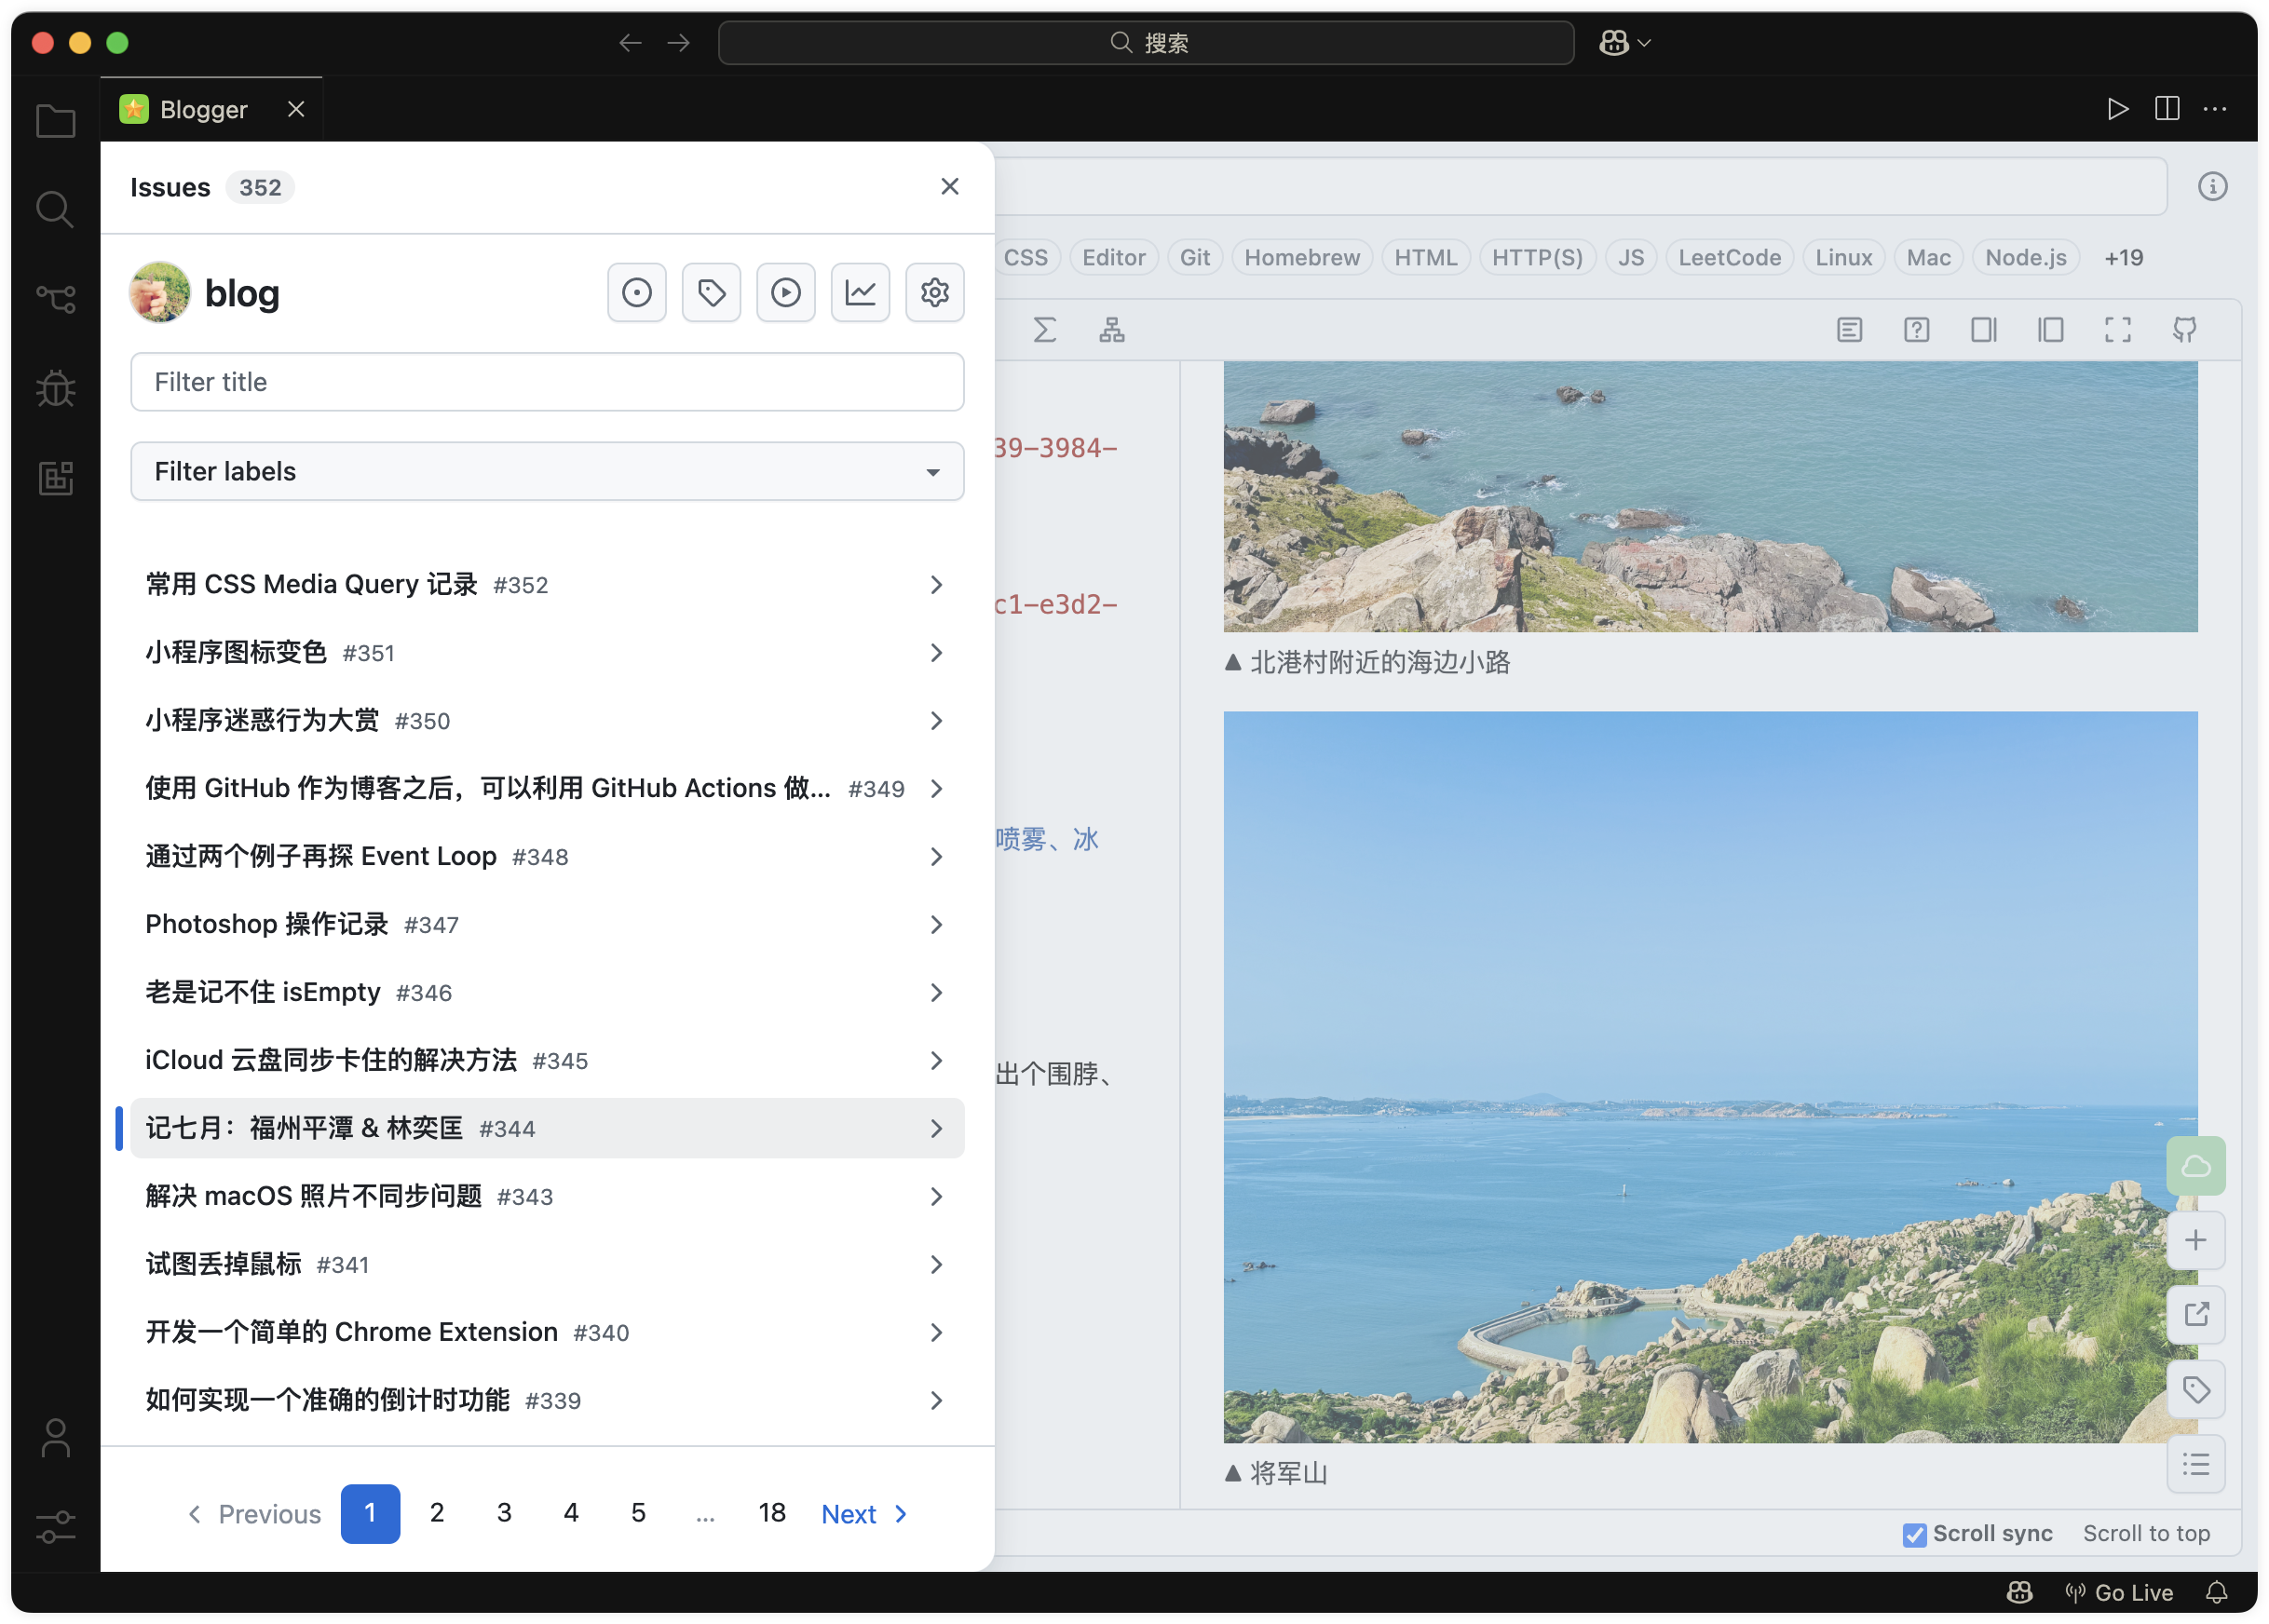
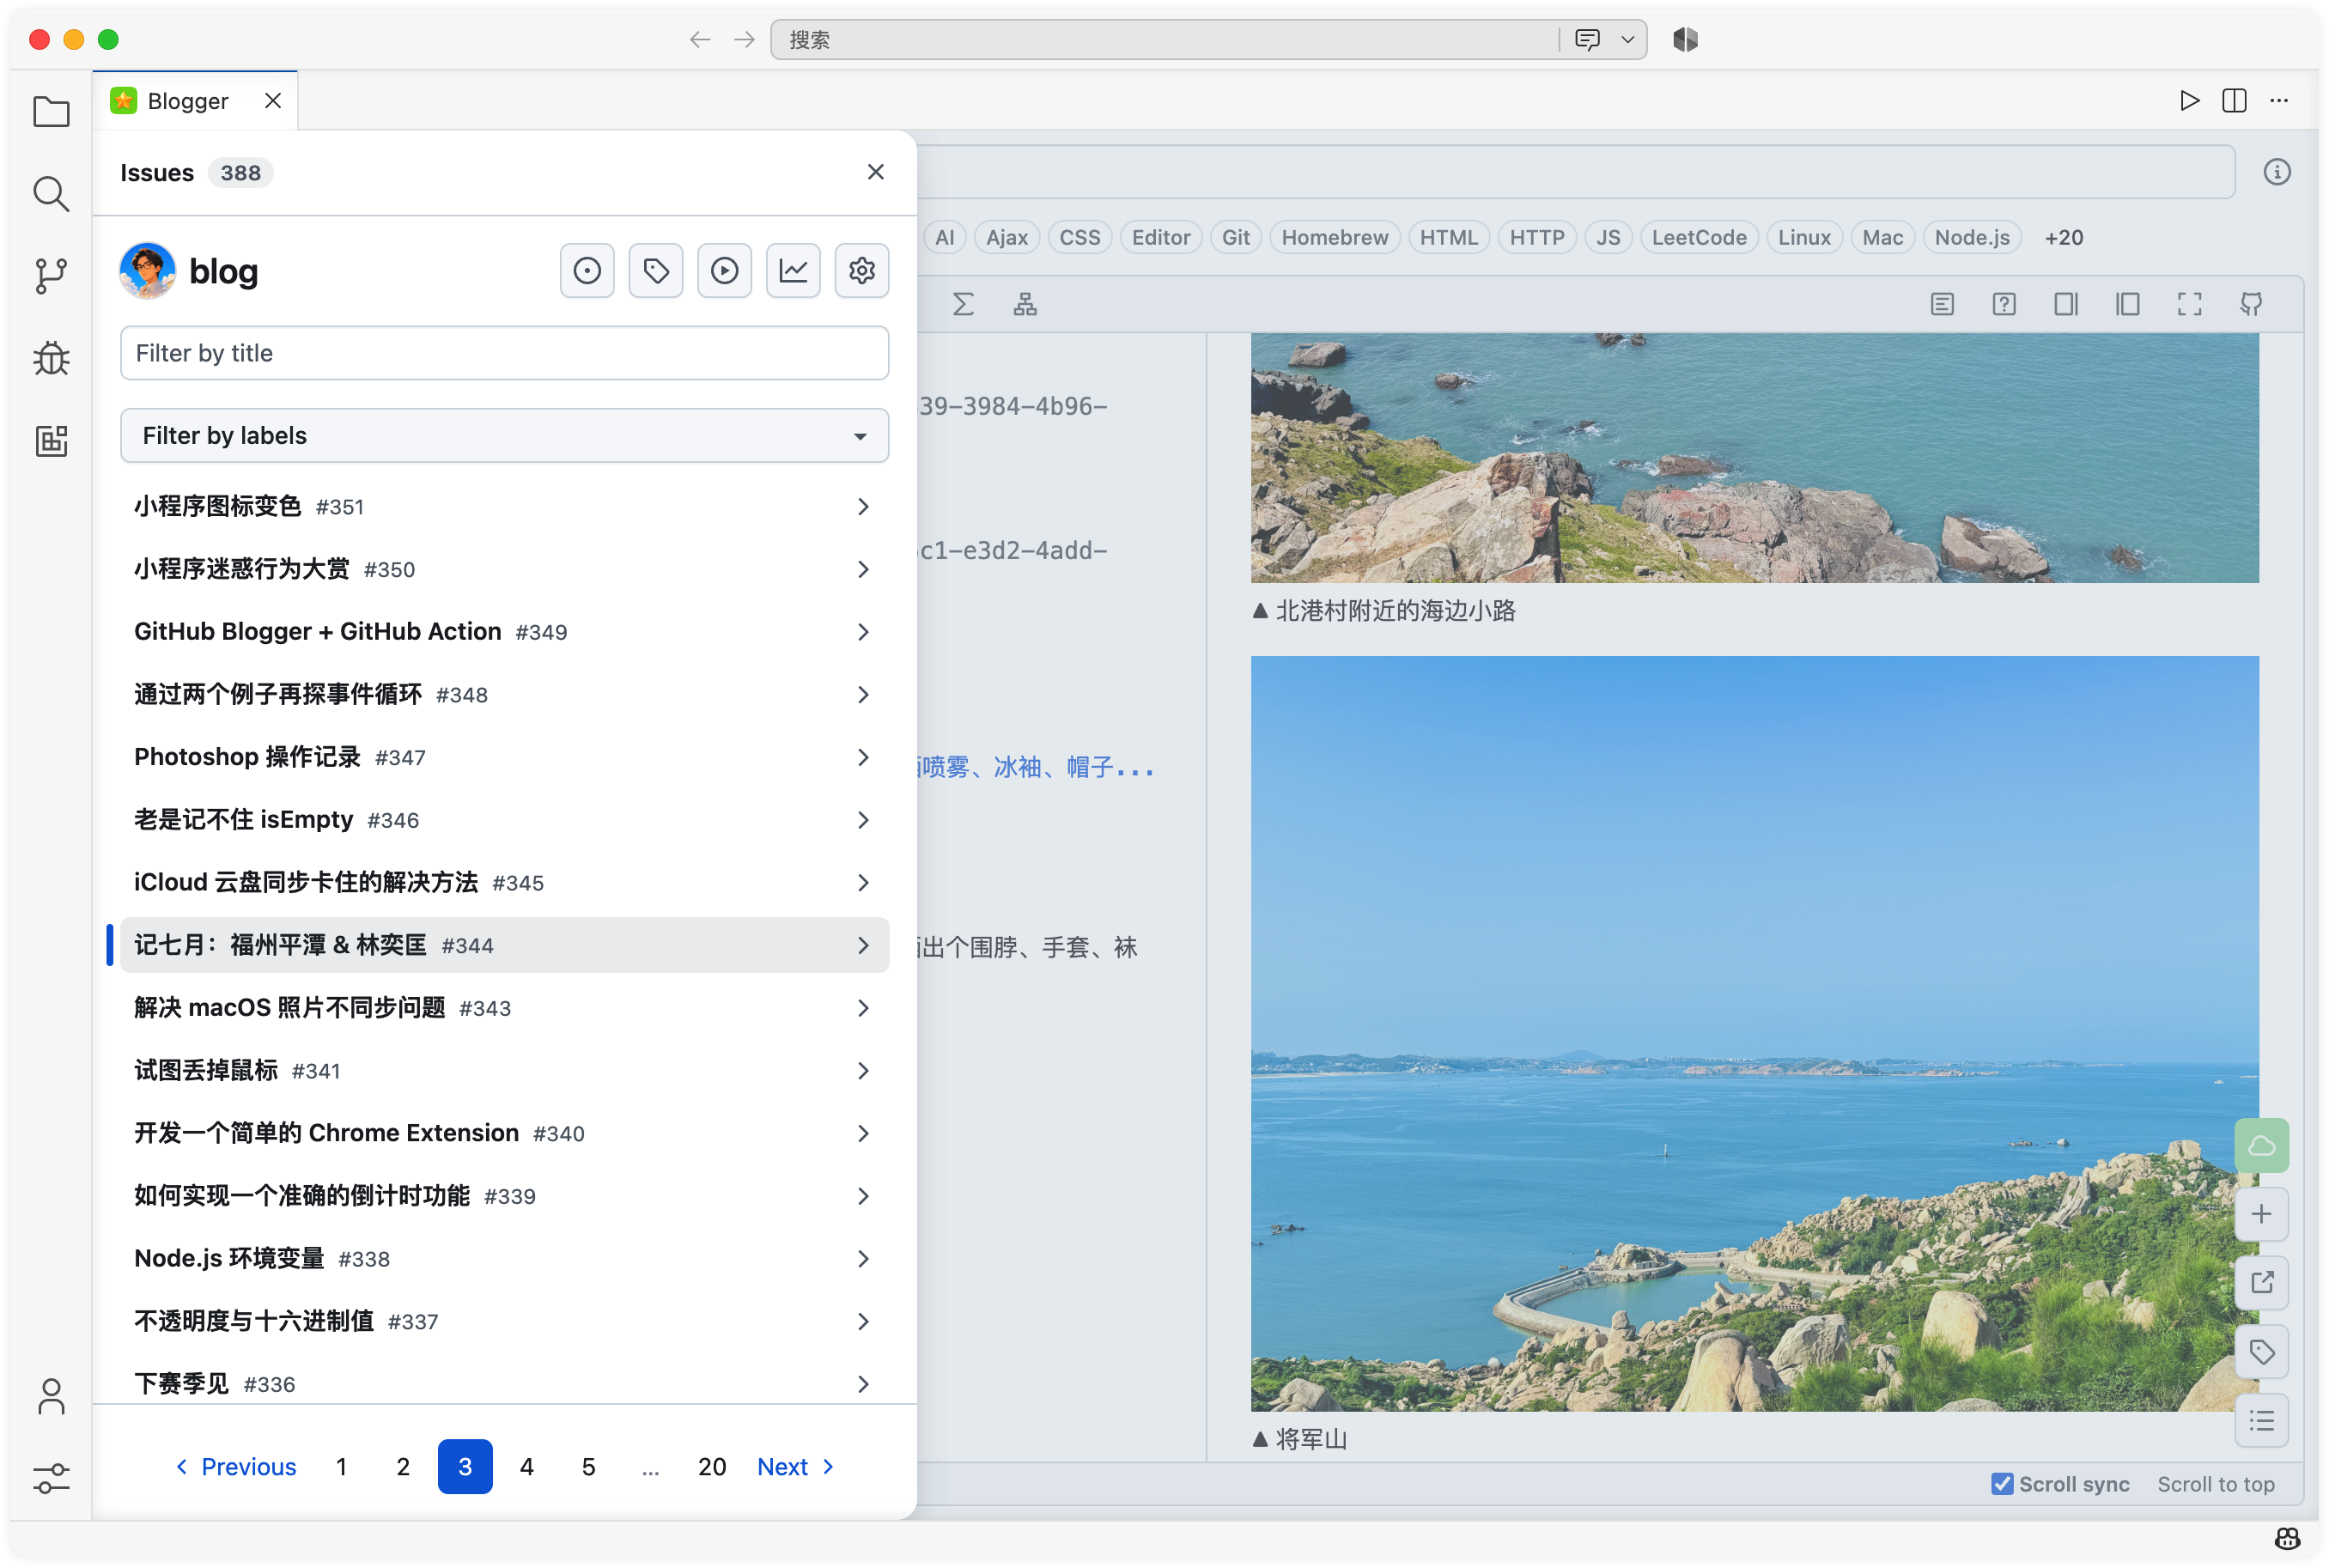
chore: release v3.0.0

diff --git a/src/components/issues/index.tsx b/src/components/issues/index.tsx
@@ -481,7 +481,9 @@ function WithoutIssue({ onActionClick }: { onActionClick: () => void }) {
         <SparkleFillIcon size="medium" />
       </Blankslate.Visual>
       <Blankslate.Heading>Welcome to GitHub Blogger</Blankslate.Heading>
-      <Blankslate.Description>Create and manage blog posts via GitHub issue</Blankslate.Description>
+      <Blankslate.Description>
+        Create and manage blog posts via GitHub Issues
+      </Blankslate.Description>
       <Blankslate.PrimaryAction onClick={onActionClick}>
         Create your first issue
       </Blankslate.PrimaryAction>

diff --git a/README.md b/README.md
@@ -5,19 +5,15 @@
 
 English | [中文](README.zh_CN.md)
 
-**GitHub Blogger** is a VS Code extension for writing and managing blog posts via GitHub issue. It supports Markdown editing, live preview, and seamless publishing — all powered by GitHub.
-
-In principle, it works with all VSCodium-based editors, such as Cursor, TRAE, Kiro and Google Antigravity.
+**GitHub Blogger** is a VS Code WebView extension for managing GitHub Issues as blog posts. It supports rich Markdown rendering, live preview, and convenient post editing and publishing. This extension works with all VSCodium-based editors, such as Cursor, TRAE, Kiro, Google Antigravity, and more.
 
 ## Features
 
-- Manage and publish blog posts via GitHub issue
-- GitHub-native interaction experience
-- GFM render support, such as Alerts
-- Light and dark mode support
-- Markdown editing with live preview and plugin support (Math, Mermaid, etc.)
-- Free image hosting support: images are stored in your blog repository and served via jsDelivr CDN
-- All posts and edit history (as Git commits) are stored in your blog repository
+- Manage and publish blog posts via the GitHub API, with text, images, and edit history (Git commits) stored in your blog repository
+- A GitHub-native writing experience with support for common workflows such as Issues and Labels
+- Light and dark modes, with editor appearance you can switch as needed
+- Live preview and rich Markdown rendering, including GitHub Flavored Markdown, math formulas, Mermaid Diagram, GitHub Alerts, and more
+- Built-in free image hosting: images are stored in your blog repository and accelerated via jsDelivr CDN
 
 > [!IMPORTANT]
 > **Your blog repository must be public** for jsDelivr CDN to work ([why](https://github.com/jsdelivr/jsdelivr/issues/18243#issuecomment-857512289), [set visibility](https://docs.github.com/en/repositories/managing-your-repositorys-settings-and-features/managing-repository-settings/setting-repository-visibility))
@@ -65,6 +61,15 @@ This extension requires a [GitHub Personal Access Token (classic)](https://githu
 ![](./images/screenshot-2.png)
 ![](./images/screenshot-3.png)
 
+<details>
+<summary>Dark Mode</summary>
+
+![](./images/screenshot-dark-1.png)
+![](./images/screenshot-dark-2.png)
+![](./images/screenshot-dark-3.png)
+
+</details>
+
 ## Acknowledgements
 
 This project is built upon and inspired by the open-source community, including:
@@ -78,7 +83,7 @@ This project is built upon and inspired by the open-source community, including:
 
 ## Related Projects
 
-- [github-issue-toc](https://github.com/tofrankie/github-issue-toc) Generate a table of contents for GitHub issue
+- [github-issue-toc](https://github.com/tofrankie/github-issue-toc) Generate a table of contents for GitHub Issues
 
 ## License
 

diff --git a/README.zh_CN.md b/README.zh_CN.md
@@ -5,19 +5,15 @@
 
 [English](README.md) | 中文
 
-**GitHub Blogger** 是一款基于 VS Code 的扩展，通过 GitHub issue 编写和管理博客文章。支持 Markdown 编辑、实时预览和无缝发布，这一切都由 GitHub 驱动。
-
-理论上支持所有基于 VSCodium 的编辑器，如 Cursor、TRAE、Kiro、Google Antigravity 等。
+**GitHub Blogger** 是一个 VS Code WebView 扩展，用于将 GitHub Issues 管理为博客文章。它支持丰富的 Markdown 渲染、实时预览，以及便捷的文章编辑与发布。本扩展支持所有基于 VSCodium 的编辑器，如 Cursor、TRAE、Kiro、Google Antigravity 等。
 
 ## 功能特性
 
-- 通过 GitHub issue 管理和发布博客文章
-- 原生 GitHub 交互体验
-- 支持 GFM 渲染，如 GitHub Alerts
-- 支持深色和浅色模式
-- 支持实时预览和插件的 Markdown 编辑器（数学公式、Mermaid 图表等）
-- 支持免费图床功能，图片存储在你的博客仓库里，通过 jsDelivr CDN 提供显示服务
-- 所有文章以及编辑记录（以 Git Commit 形式）存储在你的博客仓库中
+- 通过 GitHub API 管理和发布博客文章，文本、图片和编辑记录（Git Commit）都保存在你的博客仓库中
+- 提供贴近 GitHub 的写作体验，支持 Issue、Label 等常用工作流
+- 支持深色、浅色模式，可按需切换编辑器外观
+- 支持实时预览和丰富的 Markdown 渲染，包括 GitHub Flavored Markdown、数学公式、Mermaid Diagram、GitHub Alerts 等
+- 内置免费图床能力，图片保存在你的博客仓库中，并通过 jsDelivr CDN 加速访问
 
 > [!IMPORTANT]
 > **你的博客仓库必须是公开仓库**，jsDelivr CDN 才能正常工作（[原因](https://github.com/jsdelivr/jsdelivr/issues/18243#issuecomment-857512289)，[设置仓库可见性](https://docs.github.com/en/repositories/managing-your-repositorys-settings-and-features/managing-repository-settings/setting-repository-visibility)）

diff --git a/CHANGELOG.md b/CHANGELOG.md
@@ -2,6 +2,19 @@
 
 All notable changes will be documented in this file.
 
+## v3.0.0
+
+> Jul 23, 2026
+
+### Added
+
+- Support light and dark modes, configurable from the `Configure GitHub Blogger` command
+- Upgrade Mermaid to support more features
+
+### Fixed
+
+- Fix several issues in Cursor
+
 ## v2.8.2
 
 > Jul 21, 2026